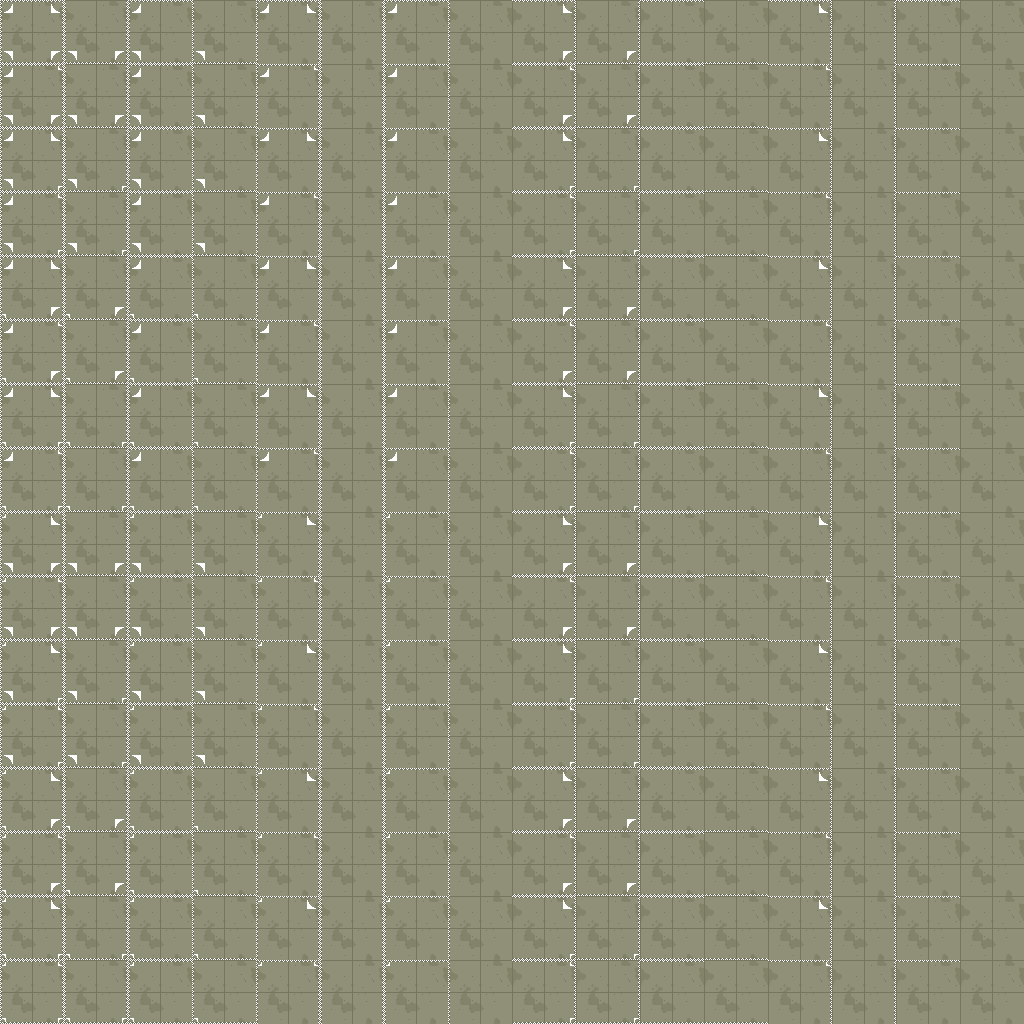
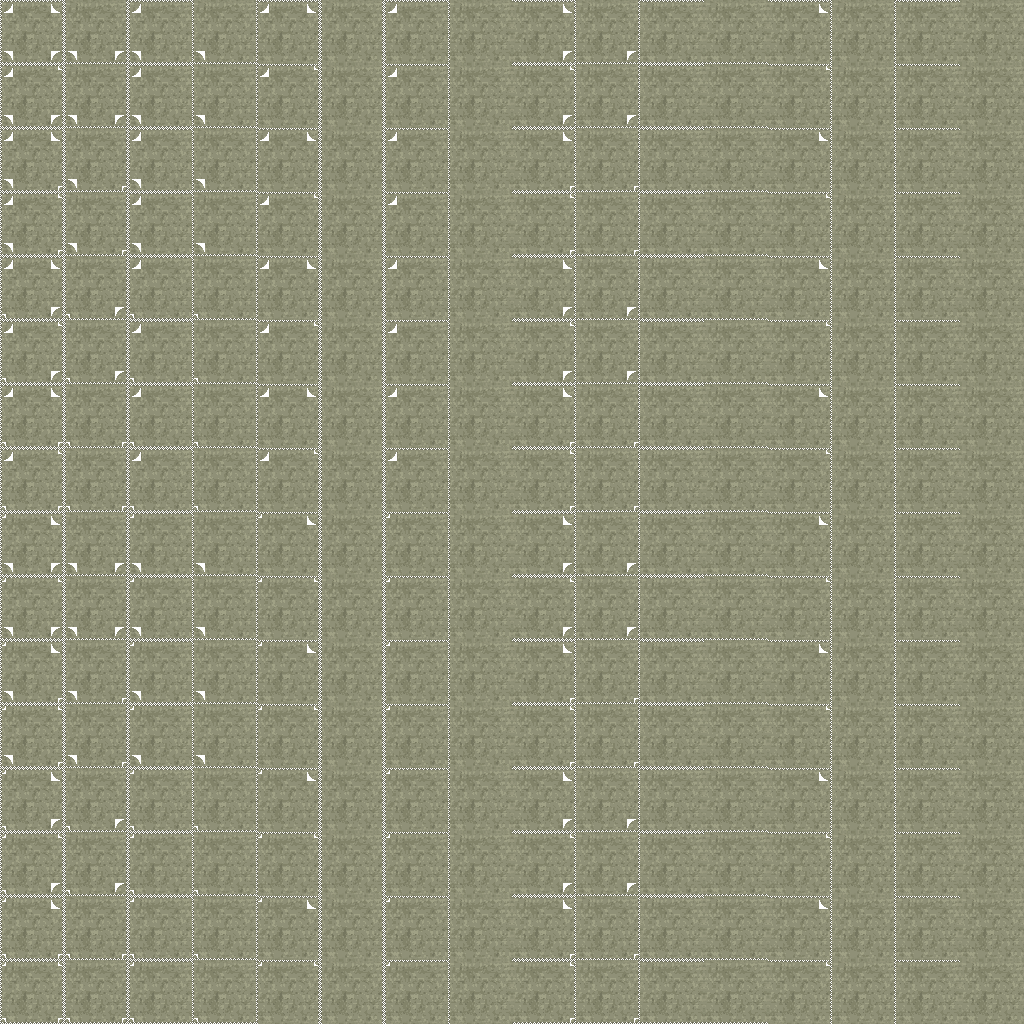
P3.d(farm): 地面第二批入库——石板/耕地（ground 全批次完成）
- 出图：模板 v2（seed 106/107），石板取候选B（分块均匀）、耕地取候选A
  （垄沟感强、32px 周期正确）；requant 参数逐资产扫描（石板 0.05/0.95+中值、
  耕地 0.30/0.95）
- 入库门：QC ground 4 + transitions 6 全过（锚点外 13.6%/9.5% 为边缘混合
  残留）；farmtest 40 项过；场景目检通过（石板质感/垄沟可辨、四地协调、
  过渡无黑边）
- art_status：ground 四项全部 delivered；manifest 重建（AI 口径 4/14）
- 工具：gen_ground_batch.py 批次参数化留档（seed 105-108 记录 gen_meta_v3）

diff --git a/tools/farming/gen_ground_batch.py b/tools/farming/gen_ground_batch.py
@@ -21,9 +21,9 @@ ROOT = Path(__file__).resolve().parent.parent.parent
 WORK = ROOT / ".art-work"
 PROMPTS = WORK / "handoff" / "ground2" / "prompts.json"
 API = "http://127.0.0.1:8188"
-BATCH = ["ground_grass", "ground_dirt"]          # 首批：草地/泥土（审核后再石板/耕地）
-SEEDS = {("ground_grass", "a"): 202610101, ("ground_grass", "b"): 202610102,
-         ("ground_dirt", "a"): 202610103, ("ground_dirt", "b"): 202610104}
+BATCH = ["ground_stone", "ground_tilled"]        # 第二批：石板/耕地
+SEEDS = {("ground_stone", "a"): 202610105, ("ground_stone", "b"): 202610106,
+         ("ground_tilled", "a"): 202610107, ("ground_tilled", "b"): 202610108}
 STEPS, CFG, SAMPLER, SCHED = 25, 1.0, "euler", "simple"
 GEN_SIZE = 1024                                   # 出图尺寸（降采样前）
 RAW_SIZE = 128                                    # 契约源图尺寸（64 整倍数，本轮 128）
@@ -103,13 +103,13 @@ def main() -> None:
                 print(f"[gen] {stem} 候选{cand} seed={seed}", flush=True)
                 gen(it["prompt"], it["negative"], seed, big)
             img = Image.open(big).convert("RGB").resize((RAW_SIZE, RAW_SIZE), Image.BOX)
-            out = WORK / "raw" / f"candidate_{cand}2" / it["path"]
+            out = WORK / "raw" / f"candidate_{cand}3" / it["path"]
             out.parent.mkdir(parents=True, exist_ok=True)
             img.save(out)
             meta["candidates"][f"{stem}_{cand}"] = {"seed": seed,
                     "raw": str(out.relative_to(ROOT))}
             print(f"[ok] {out.relative_to(ROOT)}", flush=True)
-    (WORK / "raw" / "gen_meta_v2.json").write_text(
+    (WORK / "raw" / "gen_meta_v3.json").write_text(
         json.dumps(meta, ensure_ascii=False, indent=1), encoding="utf-8")
     print("gen_meta.json written")
 
